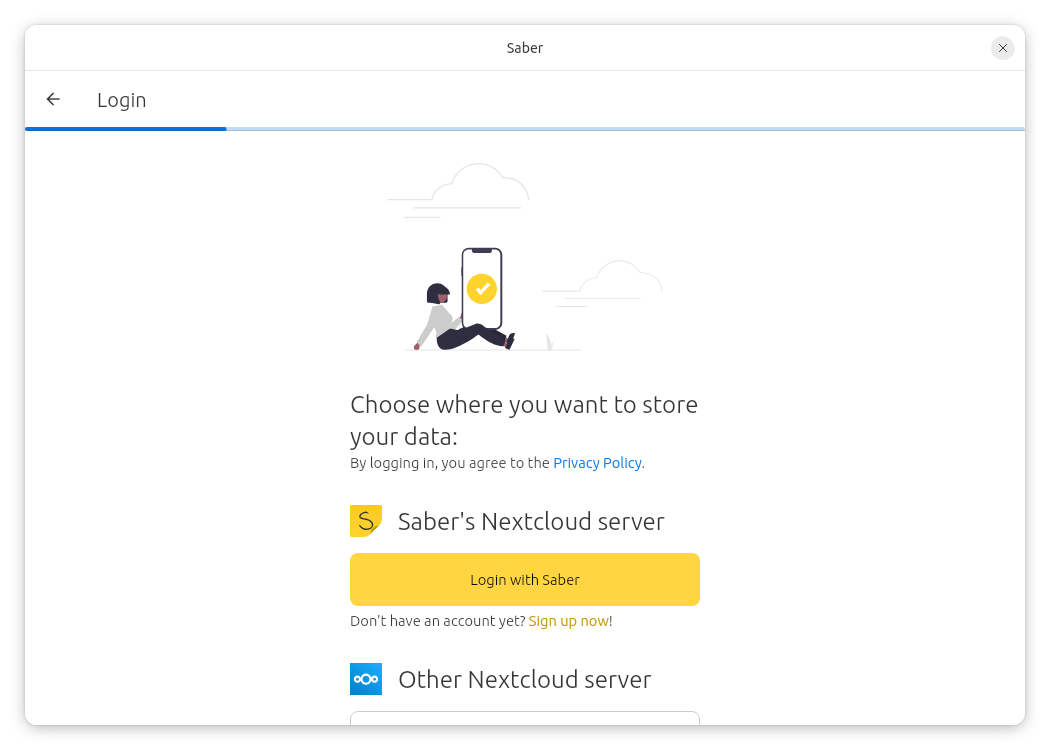
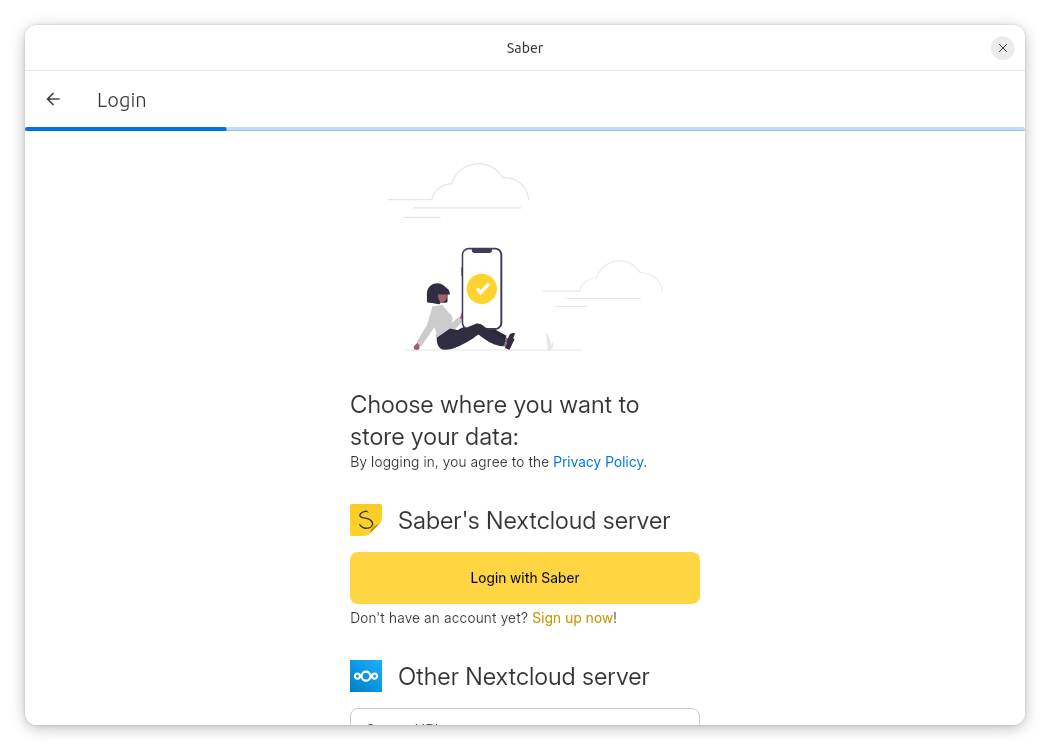
tweak: prefer Adwaita Sans over Ubuntu font

Changed region(s): [[0.3352, 0.7667, 0.64, 0.9507], [0.3352, 0.5213, 0.6705, 0.644], [0.3352, 0.6747, 0.64, 0.7053]]

diff --git a/lib/components/theming/saber_theme.dart b/lib/components/theming/saber_theme.dart
@@ -15,7 +15,7 @@ abstract class SaberTheme {
     return ThemeData(
       useMaterial3: true,
       colorScheme: colorScheme,
-      textTheme: _Components.textTheme(colorScheme.brightness),
+      textTheme: _Components.textTheme(platform, colorScheme),
       platform: platform,
       progressIndicatorTheme: _Components.progressIndicatorTheme,
       cardColor: colorScheme.surface,
@@ -99,7 +99,7 @@ abstract class SaberTheme {
   ) {
     return base.copyWith(
       platform: platform,
-      textTheme: _Components.textTheme(base.brightness),
+      textTheme: _Components.textTheme(platform, base.colorScheme),
       progressIndicatorTheme: _Components.progressIndicatorTheme,
       cardTheme: _Components.cardTheme(base.colorScheme),
       cupertinoOverrideTheme: _Components.cupertinoOverrideTheme,
@@ -110,14 +110,25 @@ abstract class SaberTheme {
 }
 
 abstract class _Components {
-  static TextTheme? textTheme(Brightness brightness) {
+  static TextTheme textTheme(TargetPlatform platform, ColorScheme colorScheme) {
+    final typography = Typography.material2021(
+      platform: platform,
+      colorScheme: colorScheme,
+    );
+    final textTheme = colorScheme.brightness == .dark
+        ? typography.white
+        : typography.black;
+
     if (stows.hyperlegibleFont.value) {
-      return ThemeData(brightness: brightness).textTheme.withFont(
+      return textTheme.withFont(
         fontFamily: 'AtkinsonHyperlegibleNext',
         fontFamilyFallback: saberSansSerifFontFallbacks,
       );
+    } else if (platform == .linux) {
+      // Flutter picks Roboto but Adwaita Sans is a better default
+      return textTheme.withFont(fontFamily: 'Adwaita Sans');
     } else {
-      return null;
+      return textTheme;
     }
   }
 

diff --git a/test/theme_test.dart b/test/theme_test.dart
@@ -71,7 +71,7 @@ void _testTheme({
           ? 'AtkinsonHyperlegibleNext'
           : switch (platform) {
               .iOS => RegExp('CupertinoSystem(Display|Text)'),
-              .linux => 'packages/yaru/Ubuntu',
+              .linux => 'Adwaita Sans',
               .macOS => '.AppleSystemUIFont',
               .windows => 'Segoe UI',
               _ => 'Roboto',

diff --git a/packages/sbn/lib/font_fallbacks.dart b/packages/sbn/lib/font_fallbacks.dart
@@ -51,7 +51,7 @@ const saberHandwritingFontFallbacks = [
 extension TextThemeExtension on TextTheme {
   TextTheme withFont({
     required String? fontFamily,
-    required List<String>? fontFamilyFallback,
+    List<String>? fontFamilyFallback,
   }) => copyWith(
     displayLarge: displayLarge?.copyWith(
       fontFamily: fontFamily,
